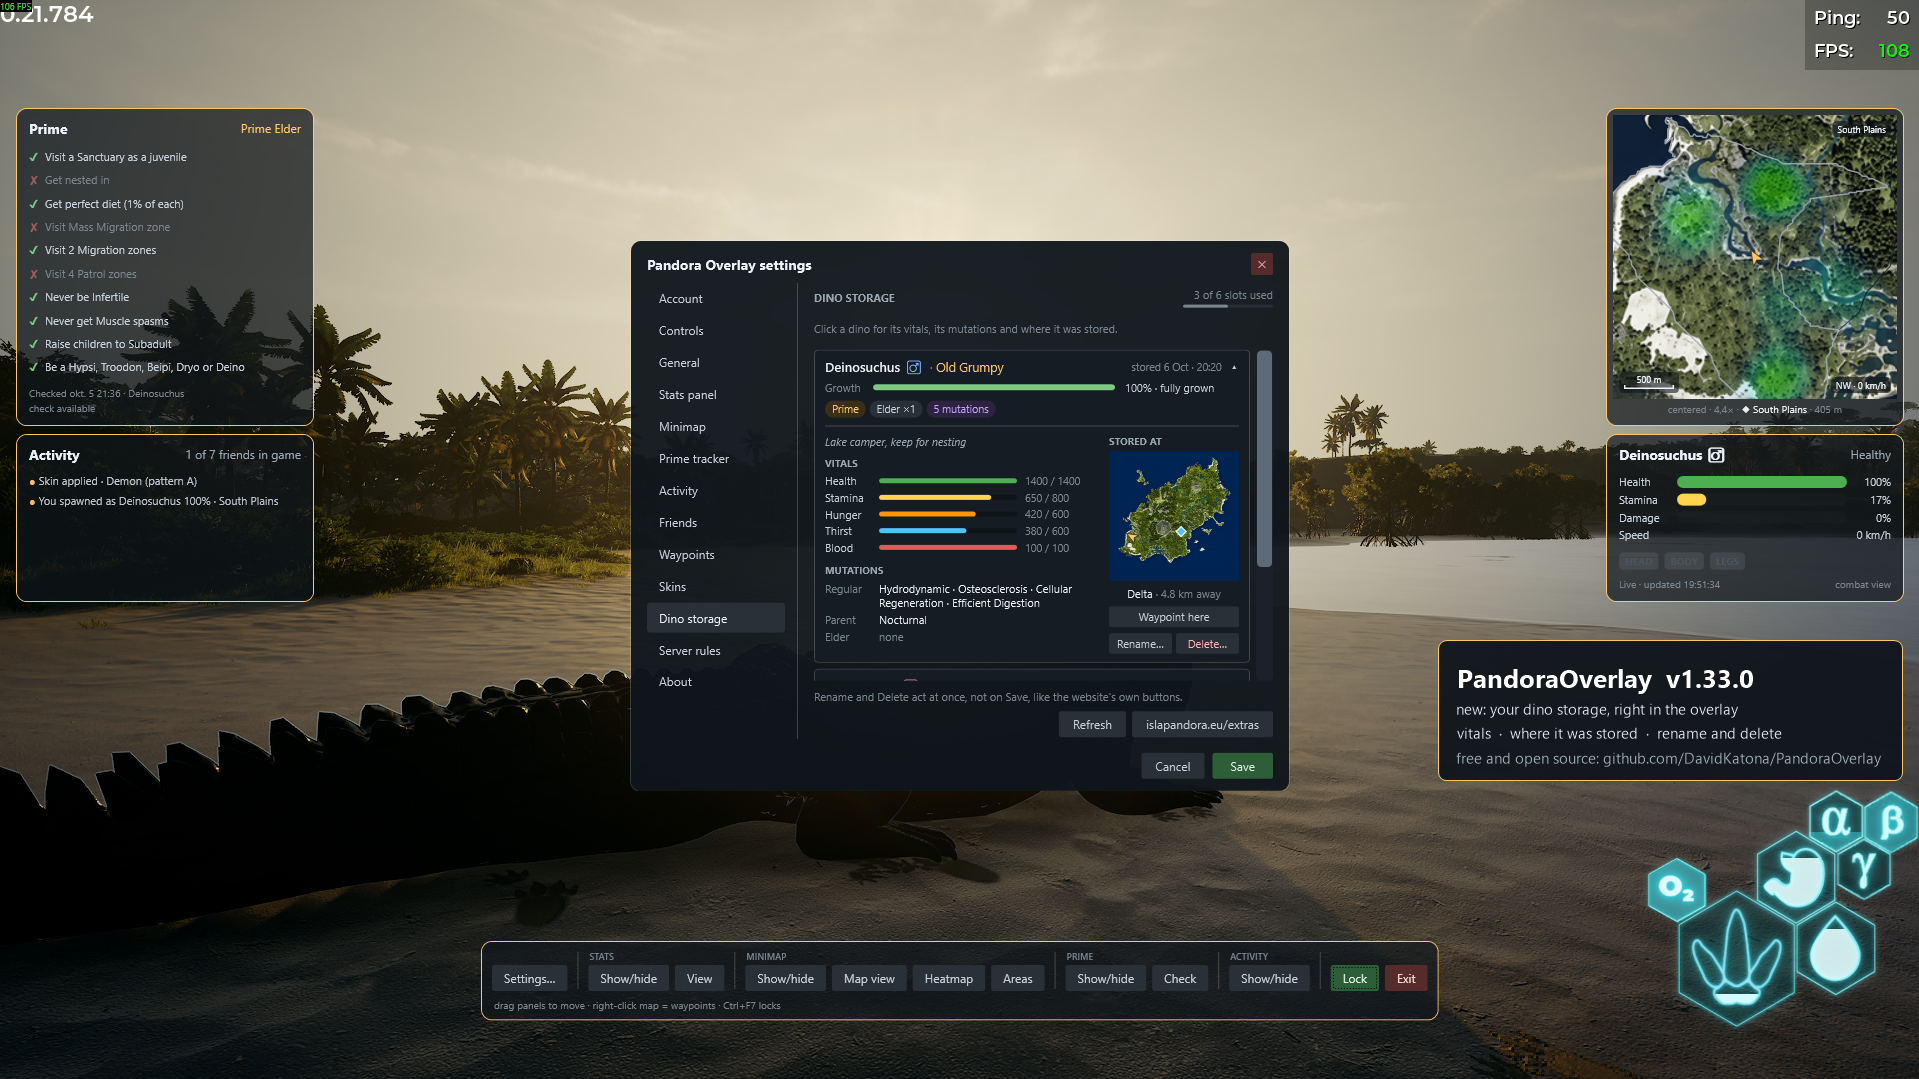
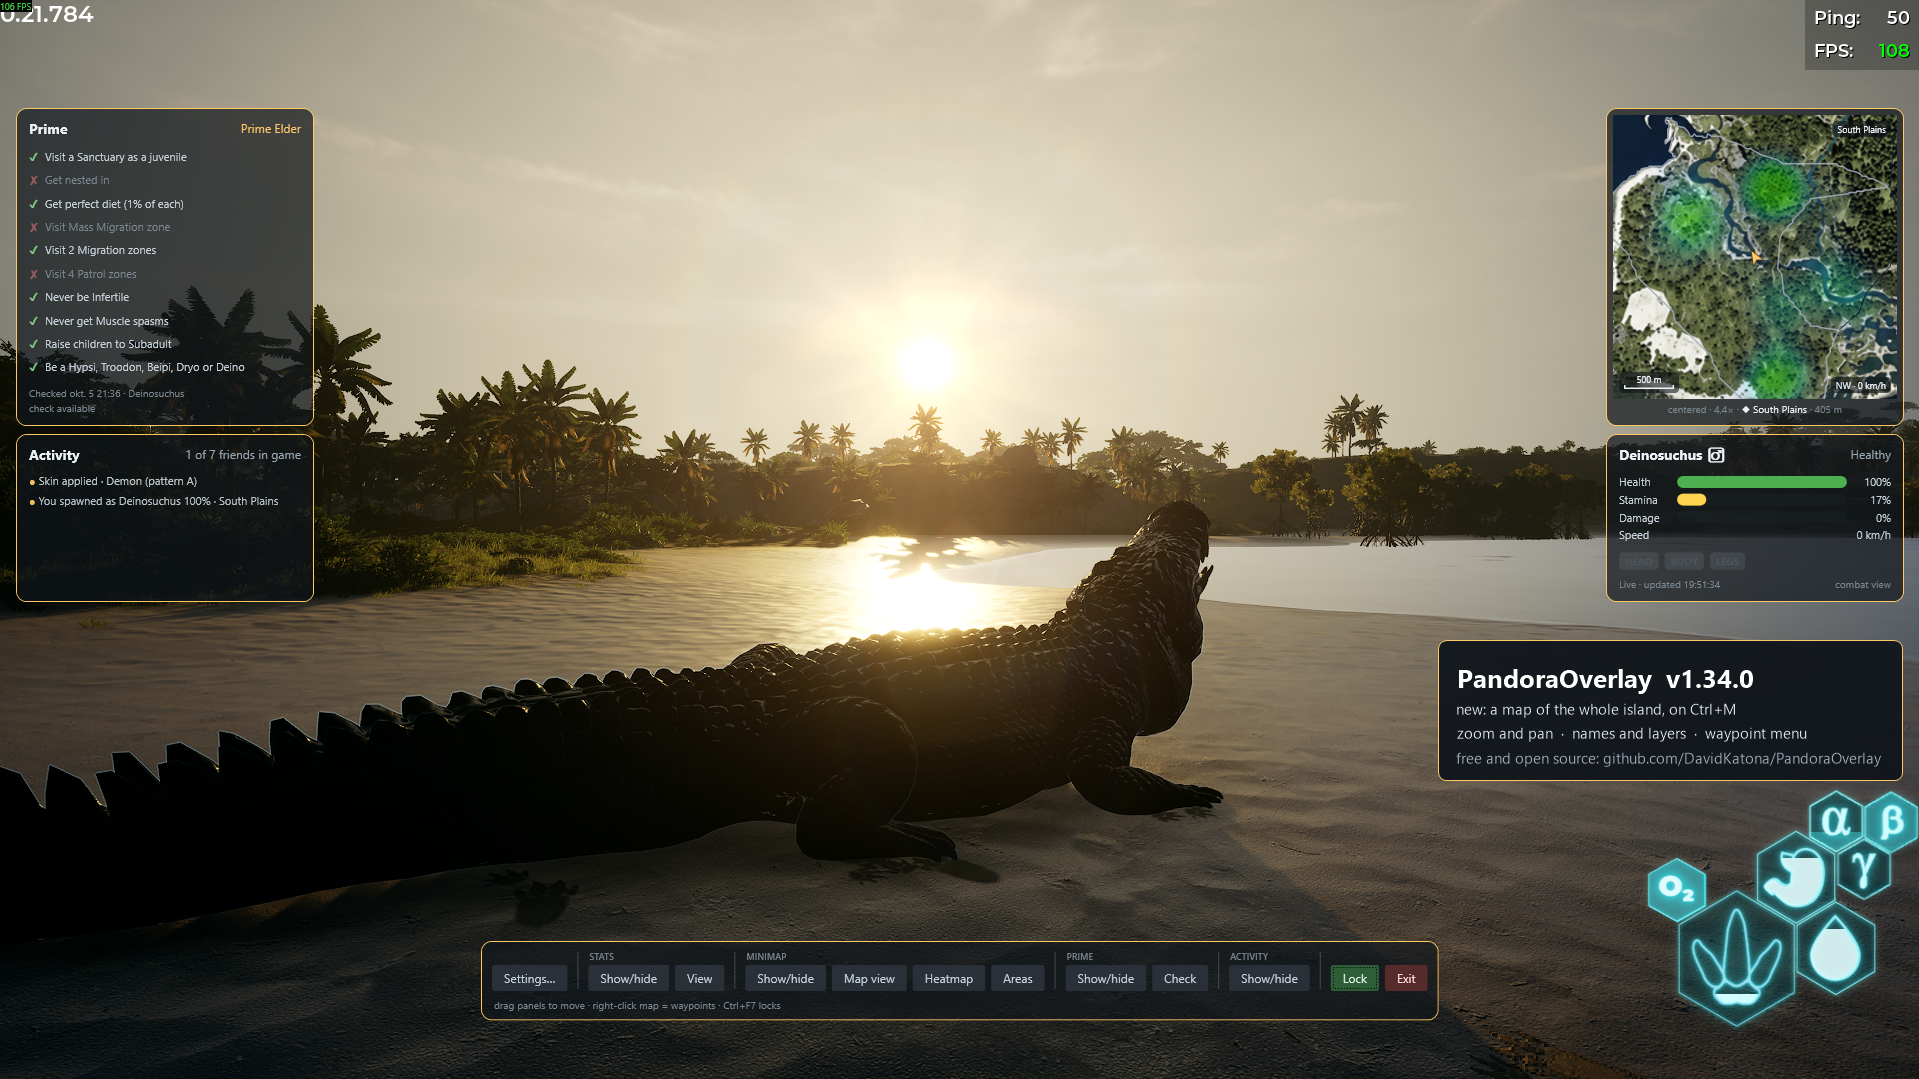
README: hero screenshot for 1.34.0 (the map)

Changed region(s): [[0.3075, 0.2141, 0.6764, 0.734], [0.7686, 0.6423, 0.9531, 0.7034]]

diff --git a/README.md b/README.md
@@ -9,7 +9,7 @@ It is **fully external**: everything it does goes through the same logged-in HTT
 [![Downloads](https://img.shields.io/github/downloads/DavidKatona/PandoraOverlay/total)](https://github.com/DavidKatona/PandoraOverlay/releases)
 [![License: MIT](https://img.shields.io/github/license/DavidKatona/PandoraOverlay)](LICENSE)
 
-![The overlay in-game, in edit mode, in the default two-column layout: the Prime tracker and the Activity feed top-left, the player-centered minimap and the stats panel in its Combat view top-right, and the control panel bottom-center, over a Deinosuchus resting on a beach at sunset; the minimap's pill names the area, "South Plains", with the heatmap and the area borders on, the Activity feed reads "You spawned as Deinosuchus 100% · South Plains"; in the middle, the Settings dialog is open on the Dino storage page with a stored Deinosuchus opened: its vitals, its mutations, and on the island map where it was stored, "Delta · 4.8 km away", with the Waypoint here, Rename… and Delete… buttons; a caption box names version 1.33.0 and what is new: your dino storage, right in the overlay: vitals, where it was stored, rename and delete](docs/screenshot.png)
+![The overlay in-game, in edit mode, in the default two-column layout: the Prime tracker and the Activity feed top-left, the player-centered minimap and the stats panel in its Combat view top-right, and the control panel bottom-center, over a Deinosuchus resting on a beach at sunset; the minimap's pill names the area, "South Plains", with the heatmap and the area borders on, the Activity feed reads "You spawned as Deinosuchus 100% · South Plains", and a caption box names version 1.34.0 and what is new: a map of the whole island on Ctrl+M, zoom and pan, names and layers, the waypoint menu](docs/screenshot.png)
 
 
 ## Contents
